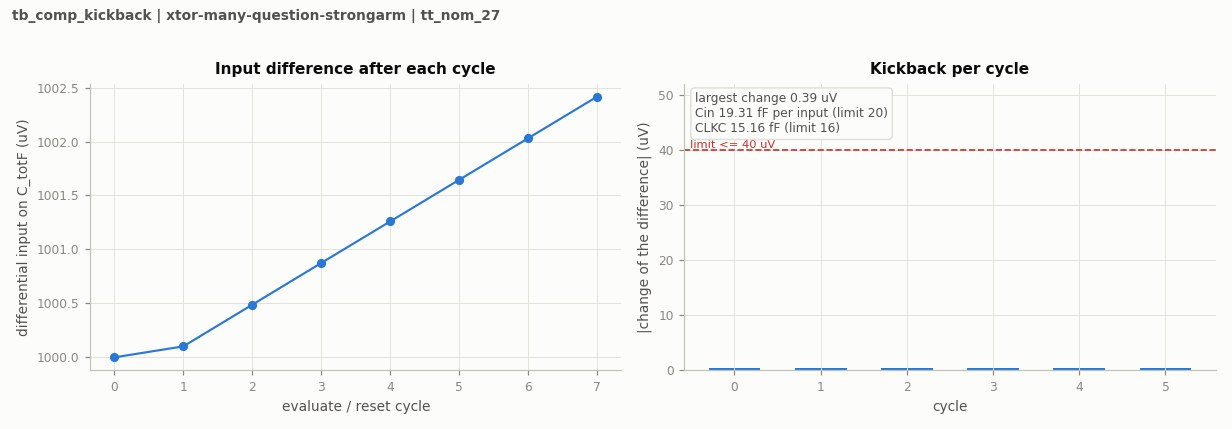
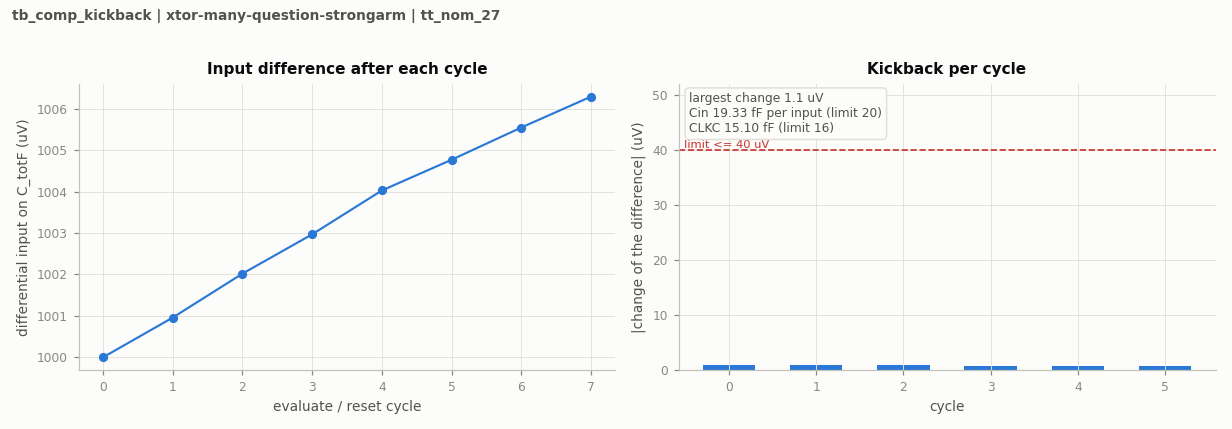
[adc_comp] record official V14 TT capacitance and kickback pass

diff --git a/design/xtor/adc_comp/many-question-strongarm/README.md b/design/xtor/adc_comp/many-question-strongarm/README.md
@@ -4,9 +4,9 @@ The canonical `adc_comp.scs` now contains the electrically identical source scre
 
 The source contains 23 MOS devices and 3 physical MOM capacitors. All dimensions and terminal parasitics come from successful callbacks or exact validated geometry reuse. Physical rail loads carry persistent current; [ENERGY-COMPARISON.md](ENERGY-COMPARISON.md) reports measured complete-circuit AVDD costs. No power limit or topology-efficiency conclusion is implied.
 
-The old canonical netlist and all 92 official records are preserved at commit `4f7e762fdc2686dd909045bf5e8a6e1834fee599` and in a SHA-verified archive. Those records are now stale for the new source. They will be replaced only by actual new-source runs through the existing official runner; no private measurements or old metadata are relabeled. [Promotion proof](PROMOTION-RESET-V14.md) records source equivalence and preserved hashes. [Historical baseline](BASELINE-BEFORE-RESET-V14.md) retains the previous narrative and experiment links.
+The old canonical netlist and all 92 official records are preserved at commit `4f7e762fdc2686dd909045bf5e8a6e1834fee599` and in a SHA-verified archive. At promotion all 92 records became stale for the new source. The official TT capacitance/kickback case has now been replaced by a genuine new-source run; 91 old-source records remain stale. No private measurements or old metadata are relabeled. [Promotion proof](PROMOTION-RESET-V14.md) records source equivalence and preserved hashes. [Historical baseline](BASELINE-BEFORE-RESET-V14.md) retains the previous narrative and experiment links.
 
-Next formal gates are TT input/clock capacitance and kickback, followed by TT noise. Remaining-corner SOA, all required formal corners, Monte Carlo and mixed-top qualification remain to establish. No old capacitance, noise, mismatch or qualification result is inherited.
+[Official TT capacitance/kickback](FORMAL-RESET-V14.md) passes: input 19.330482 fF, CLKC 15.099419 fF and kickback 1.063399 uV. The next formal gate is TT noise. Remaining-corner SOA, all required formal corners, Monte Carlo and mixed-top qualification remain to establish. No old capacitance, noise, mismatch or qualification result is inherited.
 
 ![Current complete transistor schematic](schematic.png)
 

diff --git a/design/xtor/adc_comp/many-question-strongarm/FORMAL-RESET-V14.md b/design/xtor/adc_comp/many-question-strongarm/FORMAL-RESET-V14.md
@@ -1,0 +1,19 @@
+# Official new-source validation: RESET-V14
+
[1 lines of base64/hex data omitted]
+
+## TT capacitance and kickback
+
+Actual clean source commit: `116b758630b902a077ff23776658695eba92893e`. Official run: `20261031-053903-de6e-tb_comp_kickback`. The existing `runner.run_test` uses the canonical view, mode `aps`, one job, `keep=True` and normal recording; no source, testbench, numeric, measurement or record replacement is used. The private execution wrapper only adds resource accounting, SSD temporary paths and evidence verification/cleanup.
+
+| Metric | Measured | Limit | Result |
+|---|---:|---:|---|
+| Differential kickback | 1.063399 uV | 40 uV | pass |
+| Input capacitance per input | 19.330482 fF | 20 fF | pass |
+| CLKC input capacitance | 15.099419 fF | 16 fF | pass |
+
+The genuine result is [TT kickback JSON](../../../../results/adc_comp/tb_comp_kickback/xtor-many-question-strongarm/tt_nom_27.json). Its metadata records `git_clean=true`, mode `aps`, and the canonical source's electrical hash prefix `dd44da2a98a529e3`. Official testbench numerical settings are unchanged: reltol 0.001, traponly, configured maxstep 66 ps; the log reports a largest accepted step of 50.5 ps. This capacitance result is separate from the fine-step mixed-delay clock-charge diagnostic.
+
[1 lines of base64/hex data omitted]
+
+One official case is now fresh for V14; 91 old-source records remain stale. TT noise is the next gate. Remaining-corner stress, full official coverage, mismatch and mixed-top qualification remain open. No old-source performance is inherited.
